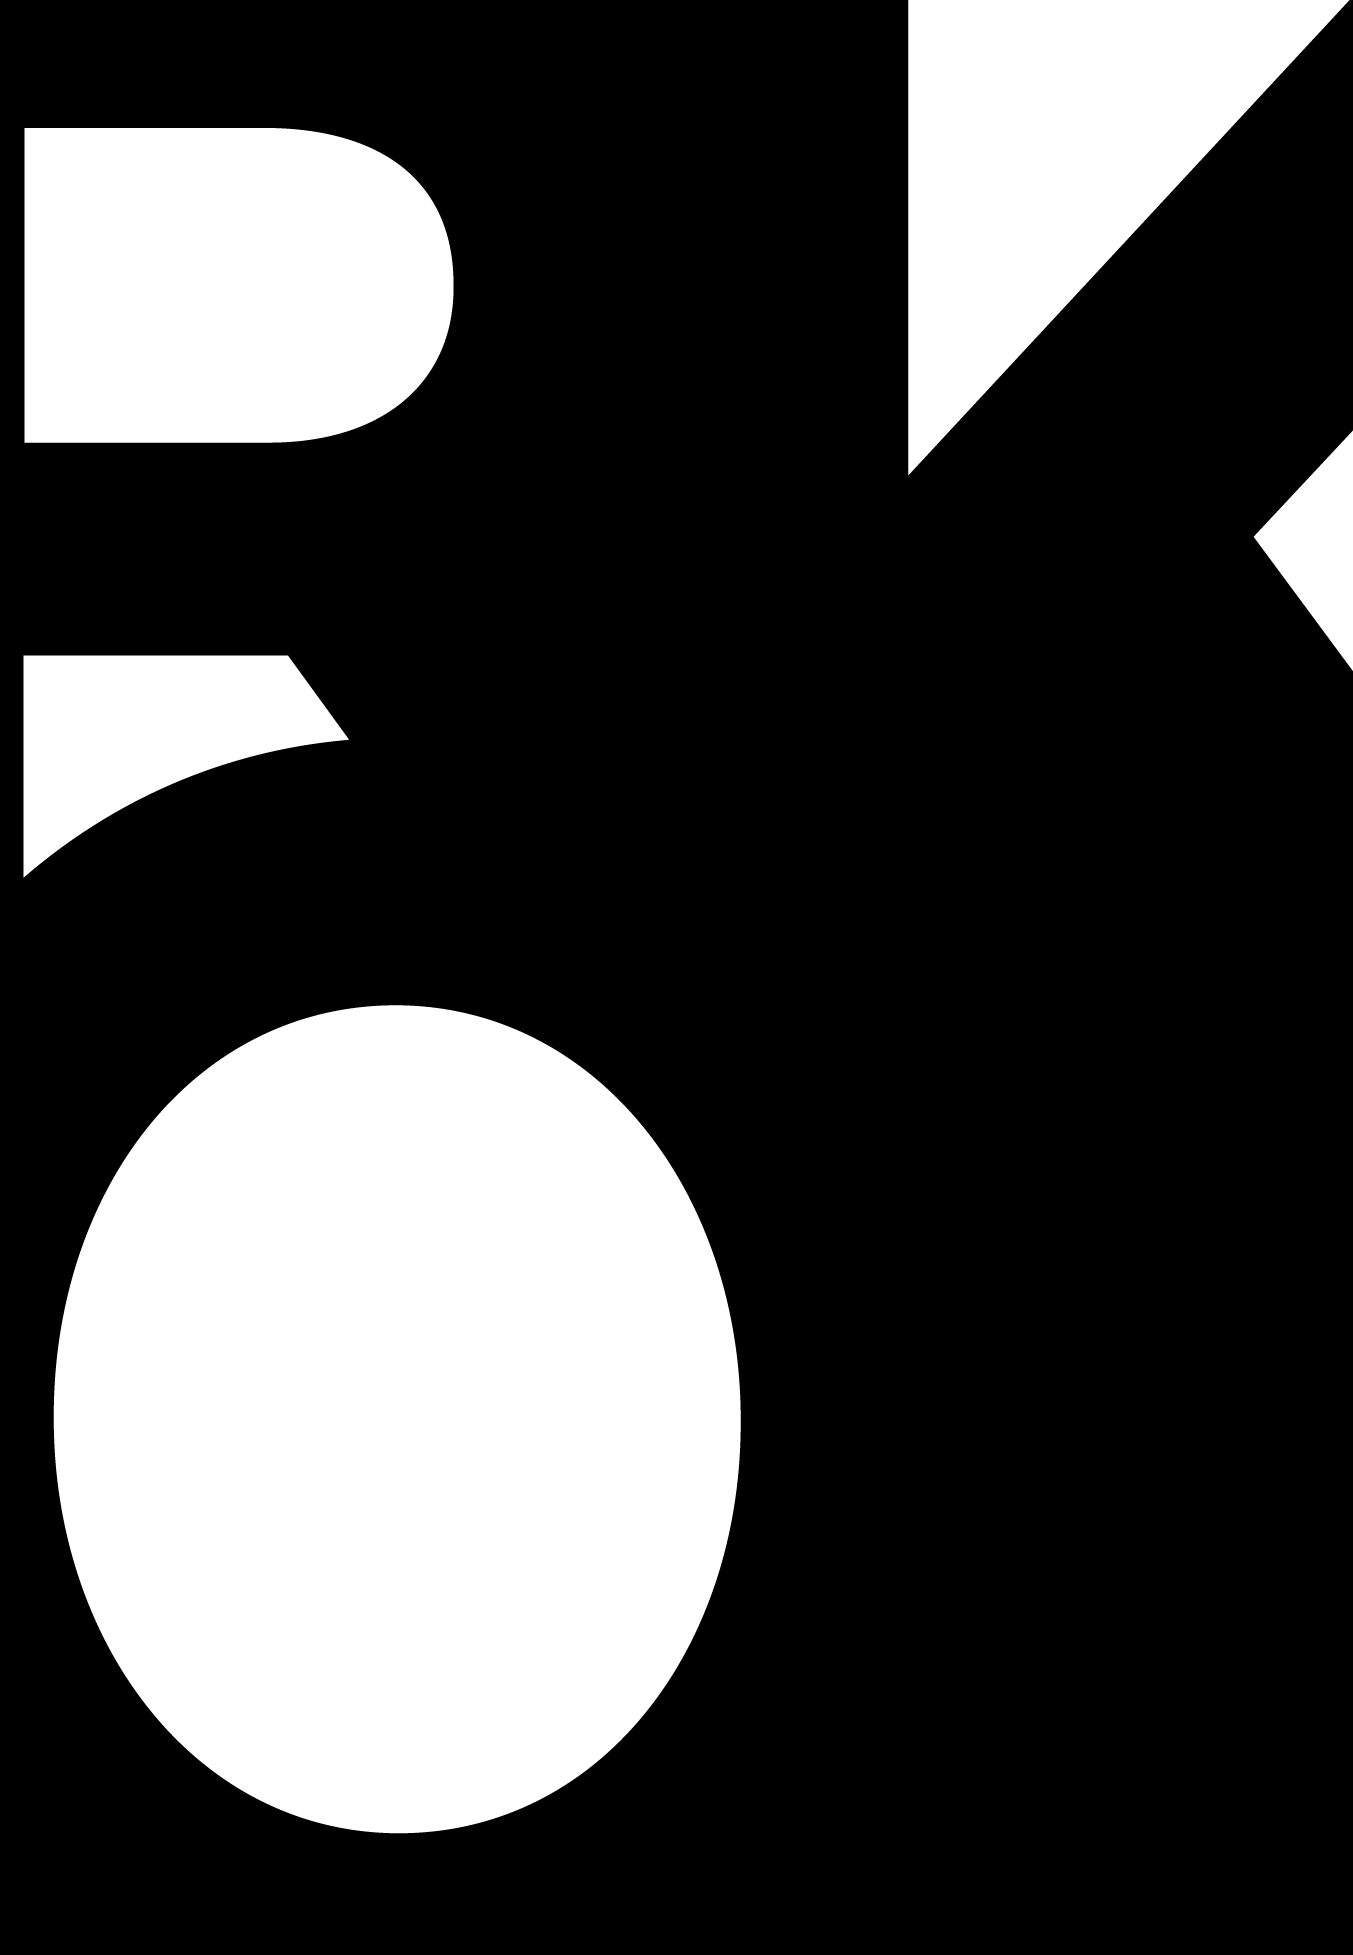
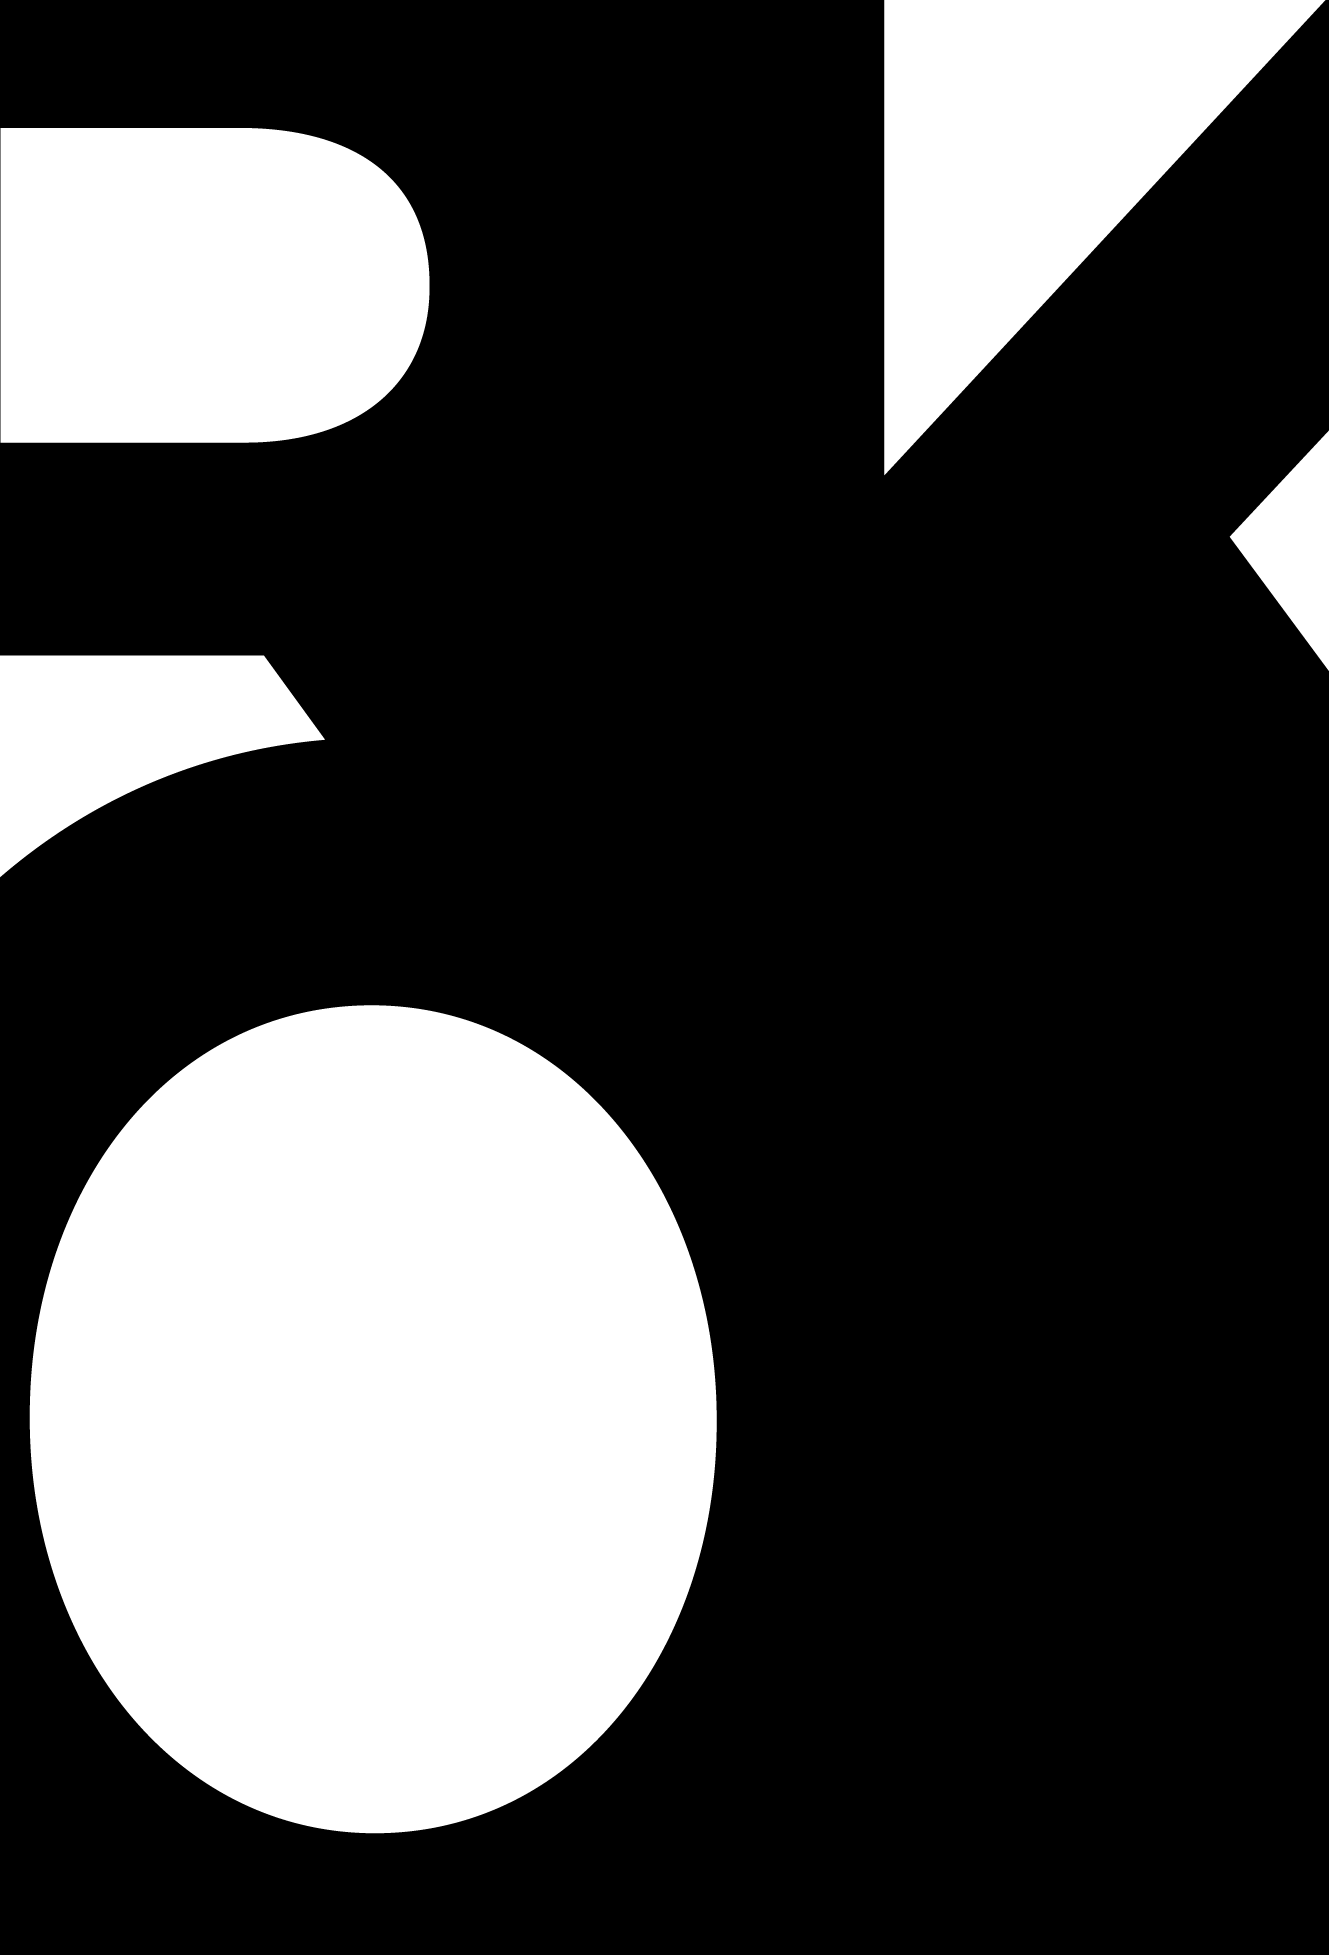
popravek ozadja

diff --git a/css/style.css b/css/style.css
@@ -41,7 +41,7 @@ nav span {
 .background {
     width: 69.1%;
     height: 100%;
-    background: url("../img/background2.png") no-repeat;
+    background: url("../img/background2.png") black no-repeat;
     background-size: cover;
     position: absolute;
     right: 0px;
